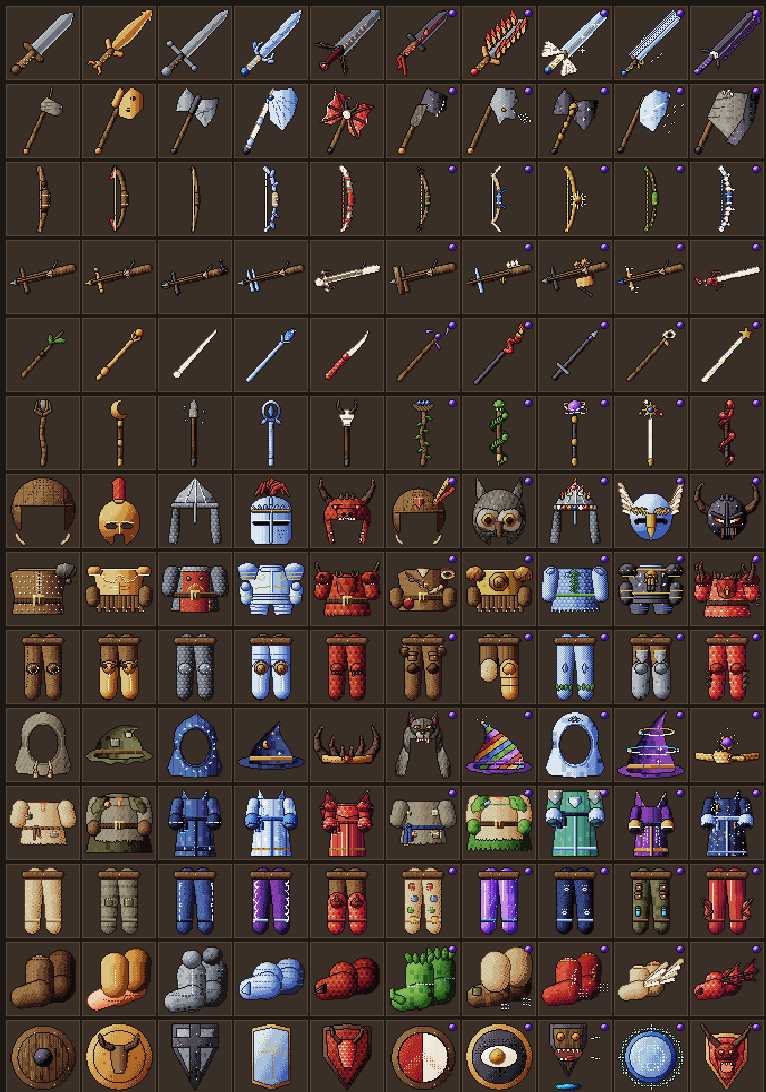
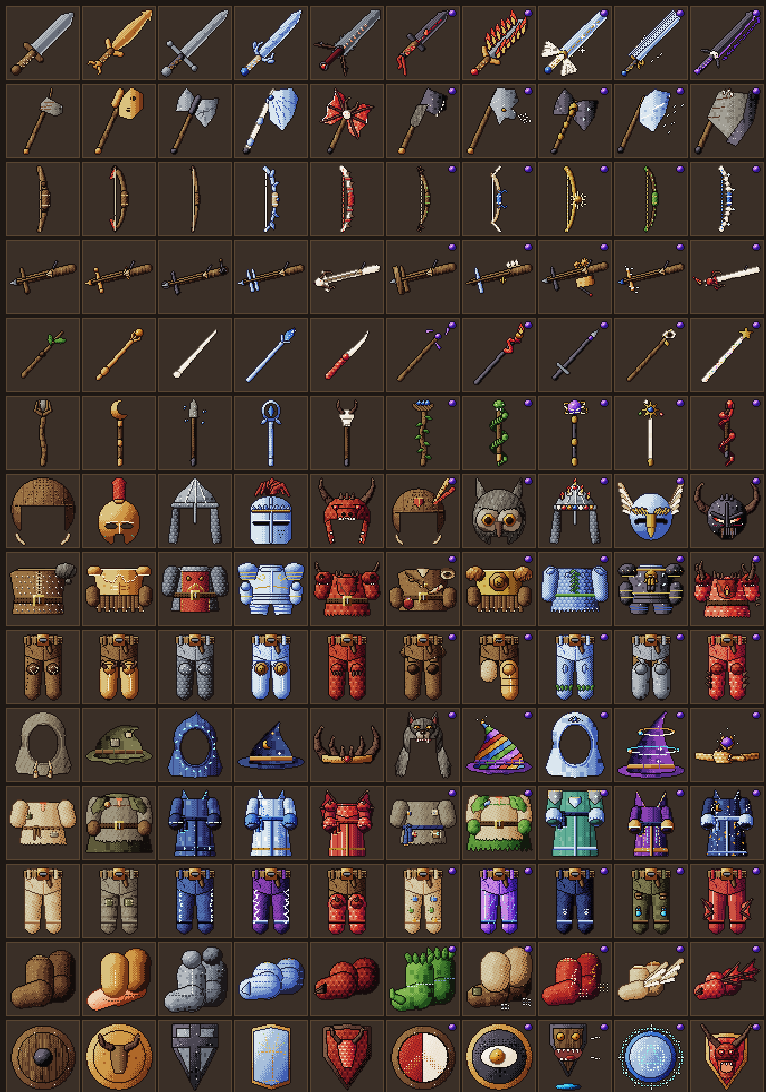
Ícones das calças e perneiras: quadril inteiro e cinto com fivela
O tecido da calça liga as duas pernas, com a costura do meio, e o cinto de couro ganha fivela de bronze com pino,
furos, passadores e a ponta sobrando.

Claude-Session: https://claude.ai/code/session_01HxW7gLTuj42Zkmr8f8kxqn

diff --git a/apps/client/src/art/proto/tibiaHero.ts b/apps/client/src/art/proto/tibiaHero.ts
@@ -357,6 +357,13 @@ export class Canvas {
     this.rawPx(X, Y, mat, tone);
   }
 
+  /** Material já pintado no ponto (em unidades, levado pela escala local); −1 se vazio. */
+  matAt(x: number, y: number): number {
+    let [X, Y] = this.tx(F(x), F(y));
+    X = Math.round(X); Y = Math.round(Y);
+    return X < 0 || Y < 0 || X >= this.w || Y >= this.h ? -1 : this.mat[Y * this.w + X];
+  }
+
   /** `is` com o pixel levado pela escala local (varreduras de coluna: sola, fita do chapéu, sombra da aba). */
   isAt(X: number, Y: number, ids: readonly number[]) {
     [X, Y] = this.tx(X, Y);
@@ -5112,8 +5119,7 @@ function iconPose(c: Canvas, id: string) {
         const x = CX + s * 3.8;
         (fam === "pants" ? pantsArt : warLegs)(c, id, [x, 66], [x + s * 0.8, 77], [x + s * 1.2, 88], false, true);
       }
-      // Cós de couro unindo as duas pernas.
-      { const band = limb(c, [CX - 8, 64.4], [CX + 8, 64.4], 1.6, 1.6, Mat.Leather, leather); rivet(c, [band], CX, 64.2, Mat.Bronze); }
+      pantsTop(c, c.matAt(CX - 3.8, 70));
       return;
     case "boots":
       bootsArt(c, id, [CX + 4, 76], [CX + 4, 87], [CX - 1, 88.4], true, false);
@@ -5121,6 +5127,32 @@ function iconPose(c: Canvas, id: string) {
       return;
     case "shield": shieldArt(c, id, [CX, 60], "down", 1); return;
   }
+}
+
+/** Quadril e cinto do ícone da calça: o tecido da calça ligando as pernas e um cinto de couro com fivela. */
+function pantsTop(c: Canvas, cloth: number) {
+  const mat: Mat = cloth >= 0 ? cloth : Mat.Leather;
+  // Quadril numa peça só, com a costura do meio e o gancho entre as pernas.
+  const hip = poly(c, [[CX - 8.6, 63.4], [CX + 8.6, 63.4], [CX + 8.4, 70.6], [CX + 1.6, 73], [CX - 1.6, 73], [CX - 8.4, 70.6]], mat, CX - 8.6, CX + 8.6, twill);
+  thread(c, [CX, 65.6], [CX, 72.6], mat, 1, [hip]);
+  thread(c, [CX + 0.5, 65.6], [CX + 0.5, 72], mat, 4, [hip]);
+  for (const s of [-1, 1]) thread(c, [CX + s * 7.8, 66], [CX + s * 5, 69.4], mat, 1, [hip]);
+  // Cinto largo de couro com borda clara, pesponto, furos e a ponta sobrando.
+  const belt = poly(c, [[CX - 9, 62], [CX + 9, 62], [CX + 9, 65.4], [CX - 9, 65.4]], Mat.Leather, CX - 9, CX + 9, leather);
+  thread(c, [CX - 9, 62.2], [CX + 9, 62.2], Mat.Leather, 5, [belt]);
+  thread(c, [CX - 9, 65.1], [CX + 9, 65.1], Mat.Leather, 0, [belt]);
+  for (const y of [62.9, 64.5]) thread(c, [CX - 8.6, y], [CX + 8.6, y], Mat.Leather, (k) => (k % 3 === 0 ? 4 : -1), [belt]);
+  for (const x of [3.8, 5.4, 7]) rivet(c, [belt], CX + x, 63.7, Mat.Soot);
+  limb(c, [CX + 2.2, 64.6], [CX + 3.4, 69], 0.9, 0.8, Mat.Leather, leather);
+  // Passadores no tecido da calça.
+  for (const x of [-6.6, 6.2]) plate(c, [[CX + x - 0.7, 61.6], [CX + x + 0.7, 61.6], [CX + x + 0.7, 65.8], [CX + x - 0.7, 65.8]], mat, twill);
+  // Fivela de bronze com o pino de aço.
+  const buckle = c.fill([CX - 2.6, 61, CX + 2.6, 66.4], (x, y) => {
+    const dx = Math.abs(x + 0.5 - CX), dy = Math.abs(y + 0.5 - 63.7);
+    return dx <= 2.4 && dy <= 2.5 && (dx >= 1.3 || dy >= 1.4);
+  }, Mat.Bronze, sphere(CX - 0.6, 62.8, 2.8, 2.8));
+  limb(c, [CX - 1.3, 63.7], [CX + 1.4, 63.7], 0.35, 0.35, Mat.Steel);
+  c.on(buckle, F(CX - 2), F(61.6), Mat.Bronze, 5);
 }
 
 /** Ícone do item no padrão novo (`PROTO_ICON` px): enquadrado e ampliado até caber, com a gema da raridade no canto. */
